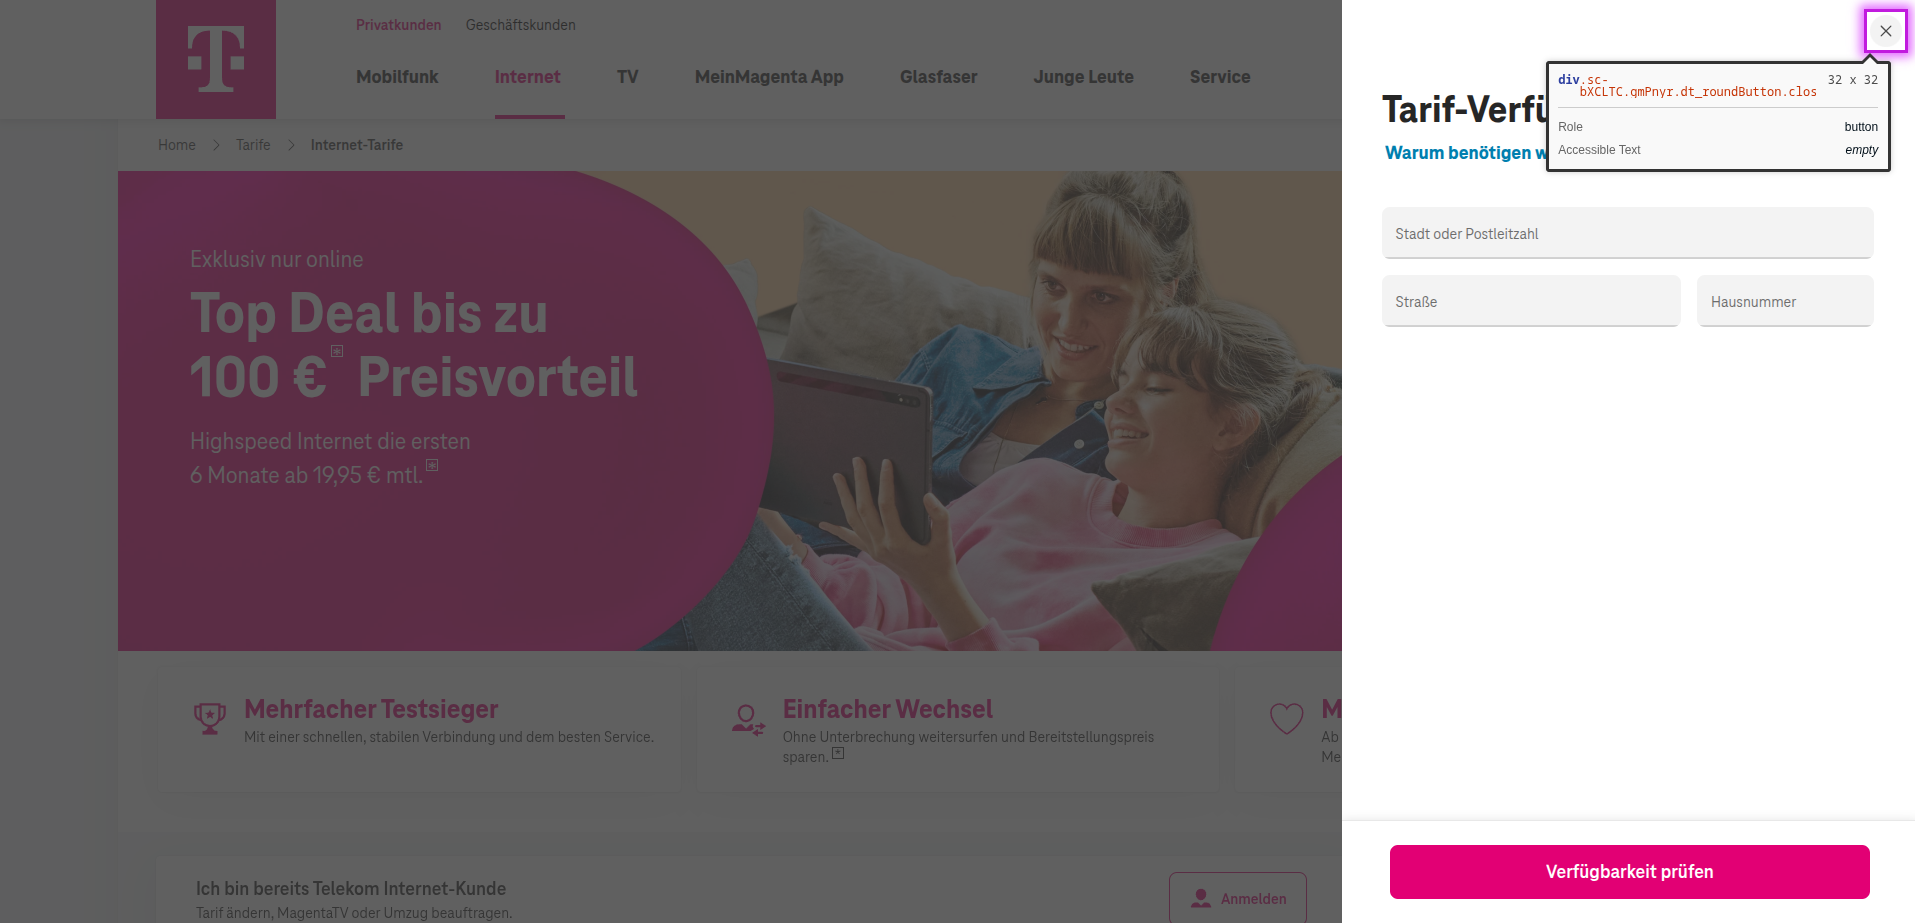
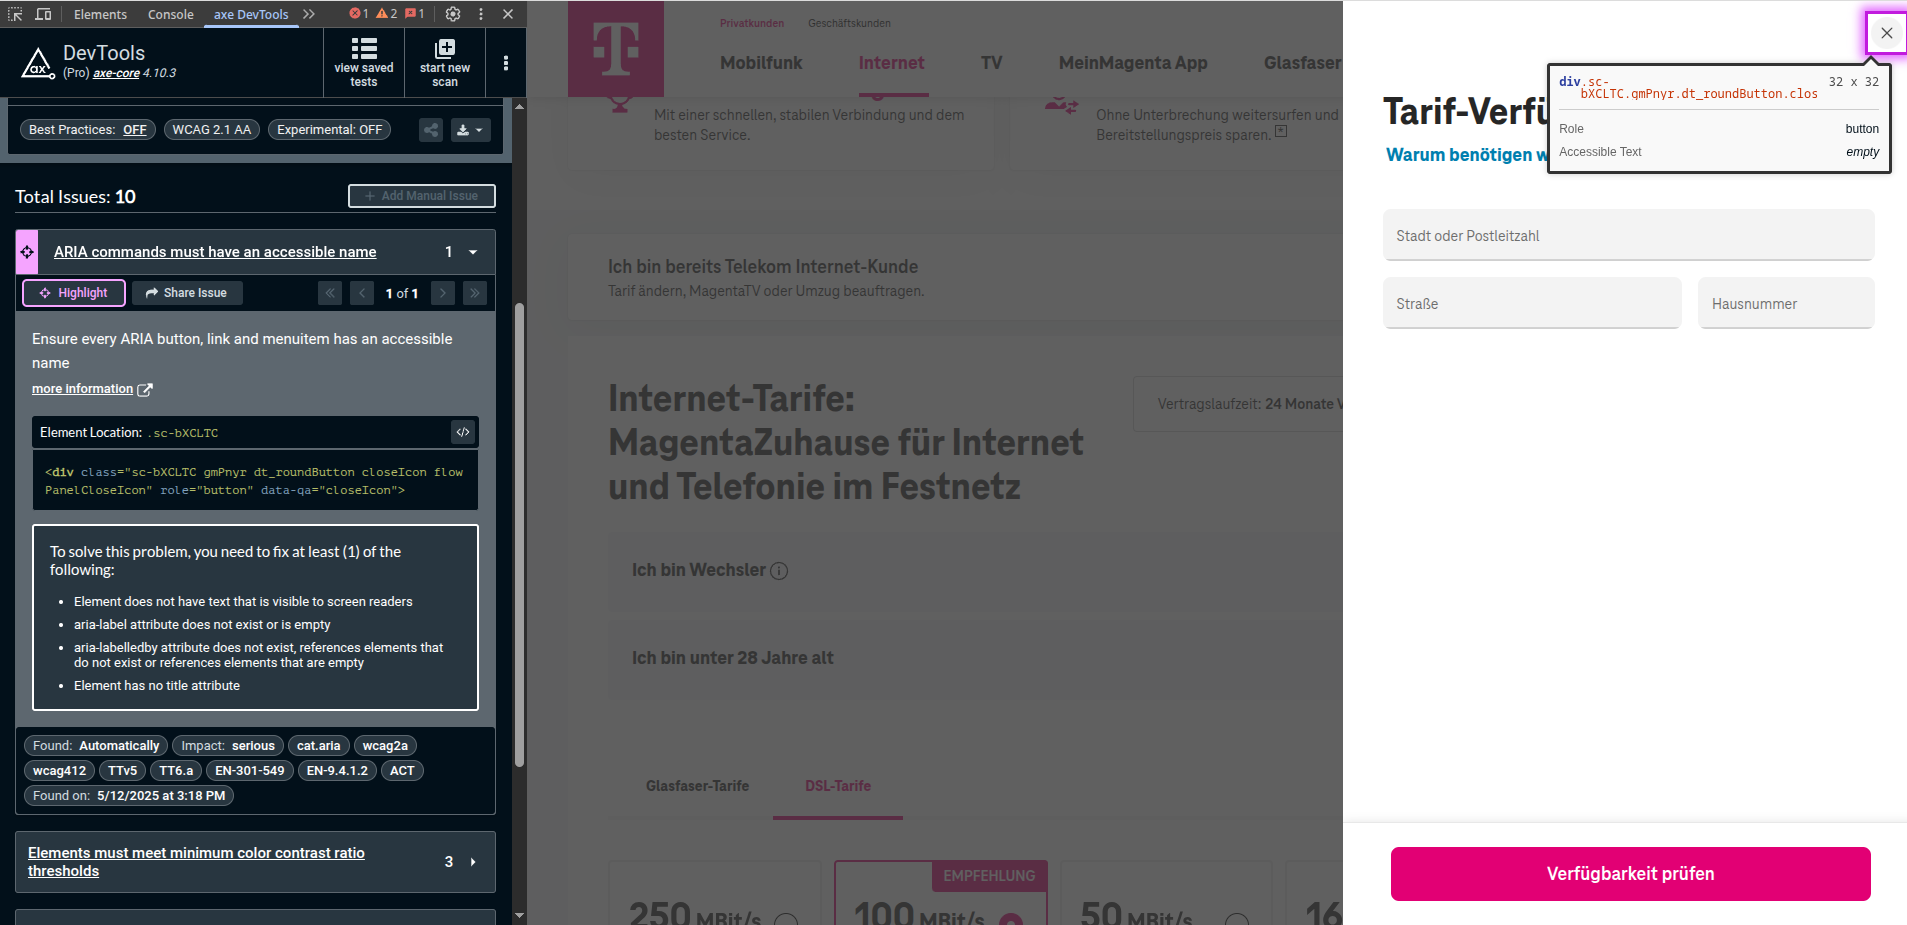
Add HVV & Telekom

diff --git a/thesis/chapters/03_analyse-bestandsseiten.tex b/thesis/chapters/03_analyse-bestandsseiten.tex
@@ -232,6 +232,49 @@ Insgesamt treten auf der Seite deutlich mehr Fehler auf als bei den vorherigen S
 \end{figure}
 
 \subsection{Analyse HVV Hamburger Verkehrsverbund GmbH}
+Bei der HVV sind die häufigsten Fehler, der fehlende Kontrast von Text zu Hintergrund. Die Primärfarbe ist ein rot, welches auf weiß nicht auseichend gut zu erkennen ist. Da viele Elemnte in dem Rot gehalten sind, treten auch viele Fehler auf der Website auf. Damit wurde das Kriterium 1.4.3 "Mindestkontrast" nicht eingehalten.
+\begin{figure}[H]
+    \includegraphics[width=\textwidth]{img/hvv_failed-minimum-contrast.png}
+    \caption{Kontrastprobleme auf der Startseite}
+\end{figure}
+Auch bei der Tastaturbedienbarkeit sind auf der Seite einige Fehler aufgetreten. So ist es nicht möglich den Button "Eingabe löschen" in dem Routenplaner zu klicken. Es besteht immer noch die Möglichkeit, den Text manuell zu löschen, aber der Button erfüllt nicht seinen Zweck. Dies ist ein Verstoß gegen Kriterium 2.1.1 "Tastaturbedienbarkeit".
+\begin{figure}[H]
+    \includegraphics[width=\textwidth]{img/hvv_no-perform-only-keyboard.png}
+    \caption{Button ohne Tastaturbedienbarkeit}
+\end{figure}
+
+Zusätlich ist bei dem "Suchen"-Button kein visueller Fokus gegeben. Es wurde beim Fokussieren nur ein Schlagschatten verwendet, der kaum zu erkennen ist. Das reicht als visueller Fokus nicht aus und verletzt das Kriterium 2.4.7 "Fokus sichtbar".
+
+\begin{figure}[H]
+    \centering
+    \begin{minipage}[t]{0.49\textwidth}
+        \centering
+        \includegraphics[width=\textwidth]{img/hvv_button-without-focus.png}
+        \caption{Button ohne Fokus}
+    \end{minipage}
+    \hfill
+    \begin{minipage}[t]{0.49\textwidth}
+        \centering
+        \includegraphics[width=\textwidth]{img/hvv_button-with-focus.png}
+        \caption{Button mit Fokus}
+    \end{minipage}
+\end{figure}
+
+Auch die Links sind nicht korrekt umgesetzt. Das Kriterium 1.4.1 "Verwendung von Farben" sieht vor, dass Links auch ohne Farben funktionieren müssen. Da einige Links sich aber nur durch die Farbe von dem restlichen Text unterscheiden, ist dies nicht gegeben.
+
+\begin{figure}[H]
+    \includegraphics[width=\textwidth]{img/hvv_links-not-only-rely-on-color.png}
+    \caption{Link nur durch Farbe unterschieden}
+\end{figure}
+
+Beim Kauf eines Tickets fehlen bei den Inputs teilweise auch die Labels. Während die Eingabefelder für die Geltungsbereich und Zuschlag korrekt mit Labels versehen sind, fehlt das Label bei dem Eingabefeld für die die Gültigkeit ab einem angegebenen Datum. Dies ist ein Verstoß gegen Kriterium 4.1.2 "Name, Rolle, Wert".
+\begin{figure}[H]
+    \includegraphics[width=\textwidth]{img/hvv_no-label.png}
+    \caption{Fehlendes Label bei einem Eingabefeld}
+\end{figure}
+
+Insgesamt sind die Fehler pro Kriterium eher niedrig, allerdings gibt es viele Kriterien, die nicht eingehalten worden sind. Besonders ausschlagebend waren die Kontrastfehler, da sehr viel Text in dem schlecht sichtbaren Rot gehalten ist.
+
 \begin{figure}[H]
 \begin{tikzpicture}
 \begin{axis}[
@@ -241,7 +284,7 @@ Insgesamt treten auf der Seite deutlich mehr Fehler auf als bei den vorherigen S
     bar width=12pt,
     xlabel={WCAG-Kriterium},
     ylabel={Fehleranzahl},
-    symbolic x coords={ 9.1.1.1, 9.1.3.1, 9.1.4.1, 9.1.4.3, 9.2.1.1, 9.2.4.4, 9.2.4.6, 9.2.4.7, 9.3.3.2, 9.4.1.2 },
+    symbolic x coords={ 9.1.1.1, 9.1.3.1, 9.1.4.3, 9.2.1.1, 9.2.4.4, 9.2.4.6, 9.2.4.7, 9.3.3.2, 9.4.1.2 },
     xtick=data,
     x tick label style={rotate=45, anchor=east},
     ymin=0,
@@ -257,4 +300,70 @@ Insgesamt treten auf der Seite deutlich mehr Fehler auf als bei den vorherigen S
 \end{axis}
 \end{tikzpicture}
 \caption{Auswertung Analyse HVV}
+\end{figure}
+
+\subsection{Analyse Telekom}
+Auf allen Seiten ist die Navigation konstant gehalten. In der Navigation ist ein fehlender alternativer Text beim Logo (Abbildung 4.22) und damit ist dieser Fehler auch auf jeder Seite. 
+
+\begin{figure}[H]
+    \includegraphics[width=\textwidth]{img/telekom_no-alt-text_logo.png}
+    \caption{Fehlender alternativer Text}
+\end{figure}
+
+Sonst findet man auf der Startseite keine Fehler, bis auf einem fehlendem sichtbaren Fokus von zwei Checkboxen. 
+
+\begin{figure}[H]
+    \includegraphics[width=\textwidth]{img/telekom_checkbox-no-focus.png}
+    \caption{Fehlende Fokussierung bei Checkboxen}
+\end{figure}
+
+Außerdem wurde die Verfügbarkeit-Seite untersucht, um zu sehen, ob man sich auch ohne Barriere Informationen einholen kann. Dabei wurde festgestellt, dass die Seite nicht vollständig barrierefrei ist. 
+
+Die Verfügbarkeit lässt sich über ein PopUp-Fenster abfragen. Dabei hat der Schließen-Button kein Aria-Label und ist damit nicht korrekt benannt.
+
+\begin{figure}[H]
+    \includegraphics[width=\textwidth]{img/telekom_no-aria-label_close-button.png}
+    \caption{Fehlendes Aria-Label bei einem Schließen-Button}
+\end{figure}
+
+Dazu haben die Input-Felder, in denen ich die Adresse eingeben kann, kein Label. Dies ist ein Verstoß gegen Kriterium 4.1.2 "Name, Rolle, Wert".
+\begin{figure}[H]
+    \includegraphics[width=\textwidth]{img/telekom_no-label.png}
+    \caption{Fehlendes Label bei einem Eingabefeld}
+\end{figure}
+
+Die Breadcrumb-Navigation, die helfen soll, sich auf der Seite zurecht zu finden, ist nicht korrekt umgesetzt. Es ist als Liste angelegt, aber die einzelnen Listenelemente sind keine semantisch richtigen Kind-Elemente. Anstelle eines <li> wurde ein <span> verwendet. Dies ist ein Verstoß gegen Kriterium 1.3.1 "Info und Beziehungen".
+
+\begin{figure}[H]
+    \includegraphics[width=\textwidth]{img/telekom_ol-no-li.png}
+    \caption{Breadcrumb-Navigation}
+\end{figure}
+
+Die Varianz an unterschiedlichen Fehlern ist bei der Telekom wieder geringer. Allerdings sind die Fehler, die auftreten, auch auf anderen Seiten zu finden. So ist der Fehler mit dem fehlenden alternativen Text bei dem Logo auch auf der Startseite und auf der Verfügbarkeit-Seite zu finden. Auch die Breadcrumb-Navigation ist auf mehreren Seiten zu finden.
+
+\begin{figure}[H]
+\begin{tikzpicture}
+\begin{axis}[
+    width=\textwidth,
+    height=10cm,
+    ybar,
+    bar width=12pt,
+    xlabel={WCAG-Kriterium},
+    ylabel={Fehleranzahl},
+    symbolic x coords={ 9.1.1.1, 9.1.3.1, 9.1.4.3, 9.2.4.4, 9.2.4.7, 9.4.1.2 },
+    xtick=data,
+    x tick label style={rotate=45, anchor=east},
+    ymin=0,
+    ymax=350,
+    enlarge x limits=0.1,
+    legend style={cells={anchor=west}, legend pos=north east},
+    nodes near coords,
+    nodes near coords style={font=\scriptsize},
+]
+\addplot table[x=WCAG-Kriterium,y=Fehleranzahl_axe,col sep=tab] {csv/output/wcag_analyse_Telekom_xxxx.csv};
+\addplot table[x=WCAG-Kriterium,y=Fehleranzahl_WAVE,col sep=tab] {csv/output/wcag_analyse_Telekom_xxxx.csv};
+\legend{axe,WAVE}
+\end{axis}
+\end{tikzpicture}
+\caption{Auswertung Analyse Telekom}
 \end{figure}

diff --git a/thesis/csv/output/all_graphs.tex b/thesis/csv/output/all_graphs.tex
@@ -88,7 +88,7 @@
     bar width=12pt,
     xlabel={WCAG-Kriterium},
     ylabel={Fehleranzahl},
-    symbolic x coords={ 9.1.1.1, 9.1.3.1, 9.1.4.1, 9.1.4.3, 9.2.1.1, 9.2.4.4, 9.2.4.6, 9.2.4.7, 9.3.3.2, 9.4.1.2 },
+    symbolic x coords={ 9.1.1.1, 9.1.3.1, 9.1.4.3, 9.2.1.1, 9.2.4.4, 9.2.4.6, 9.2.4.7, 9.3.3.2, 9.4.1.2 },
     xtick=data,
     x tick label style={rotate=45, anchor=east},
     ymin=0,
@@ -196,7 +196,7 @@
     bar width=12pt,
     xlabel={WCAG-Kriterium},
     ylabel={Fehleranzahl},
-    symbolic x coords={ 9.1.1.1, 9.1.3.1, 9.1.4.3, 9.2.4.4, 9.2.4.6, 9.3.3.2, 9.4.1.2 },
+    symbolic x coords={ 9.1.1.1, 9.1.3.1, 9.1.4.3, 9.2.4.4, 9.2.4.7, 9.4.1.2 },
     xtick=data,
     x tick label style={rotate=45, anchor=east},
     ymin=0,

diff --git a/thesis/csv/output/wcag_analyse_HVV_chart.tex b/thesis/csv/output/wcag_analyse_HVV_chart.tex
@@ -7,7 +7,7 @@
     bar width=12pt,
     xlabel={WCAG-Kriterium},
     ylabel={Fehleranzahl},
-    symbolic x coords={ 9.1.1.1, 9.1.3.1, 9.1.4.1, 9.1.4.3, 9.2.1.1, 9.2.4.4, 9.2.4.6, 9.2.4.7, 9.3.3.2, 9.4.1.2 },
+    symbolic x coords={ 9.1.1.1, 9.1.3.1, 9.1.4.3, 9.2.1.1, 9.2.4.4, 9.2.4.6, 9.2.4.7, 9.3.3.2, 9.4.1.2 },
     xtick=data,
     x tick label style={rotate=45, anchor=east},
     ymin=0,

diff --git a/thesis/csv/output/wcag_analyse_Telekom_chart.tex b/thesis/csv/output/wcag_analyse_Telekom_chart.tex
@@ -7,7 +7,7 @@
     bar width=12pt,
     xlabel={WCAG-Kriterium},
     ylabel={Fehleranzahl},
-    symbolic x coords={ 9.1.1.1, 9.1.3.1, 9.1.4.3, 9.2.4.4, 9.2.4.6, 9.3.3.2, 9.4.1.2 },
+    symbolic x coords={ 9.1.1.1, 9.1.3.1, 9.1.4.3, 9.2.4.4, 9.2.4.7, 9.4.1.2 },
     xtick=data,
     x tick label style={rotate=45, anchor=east},
     ymin=0,
